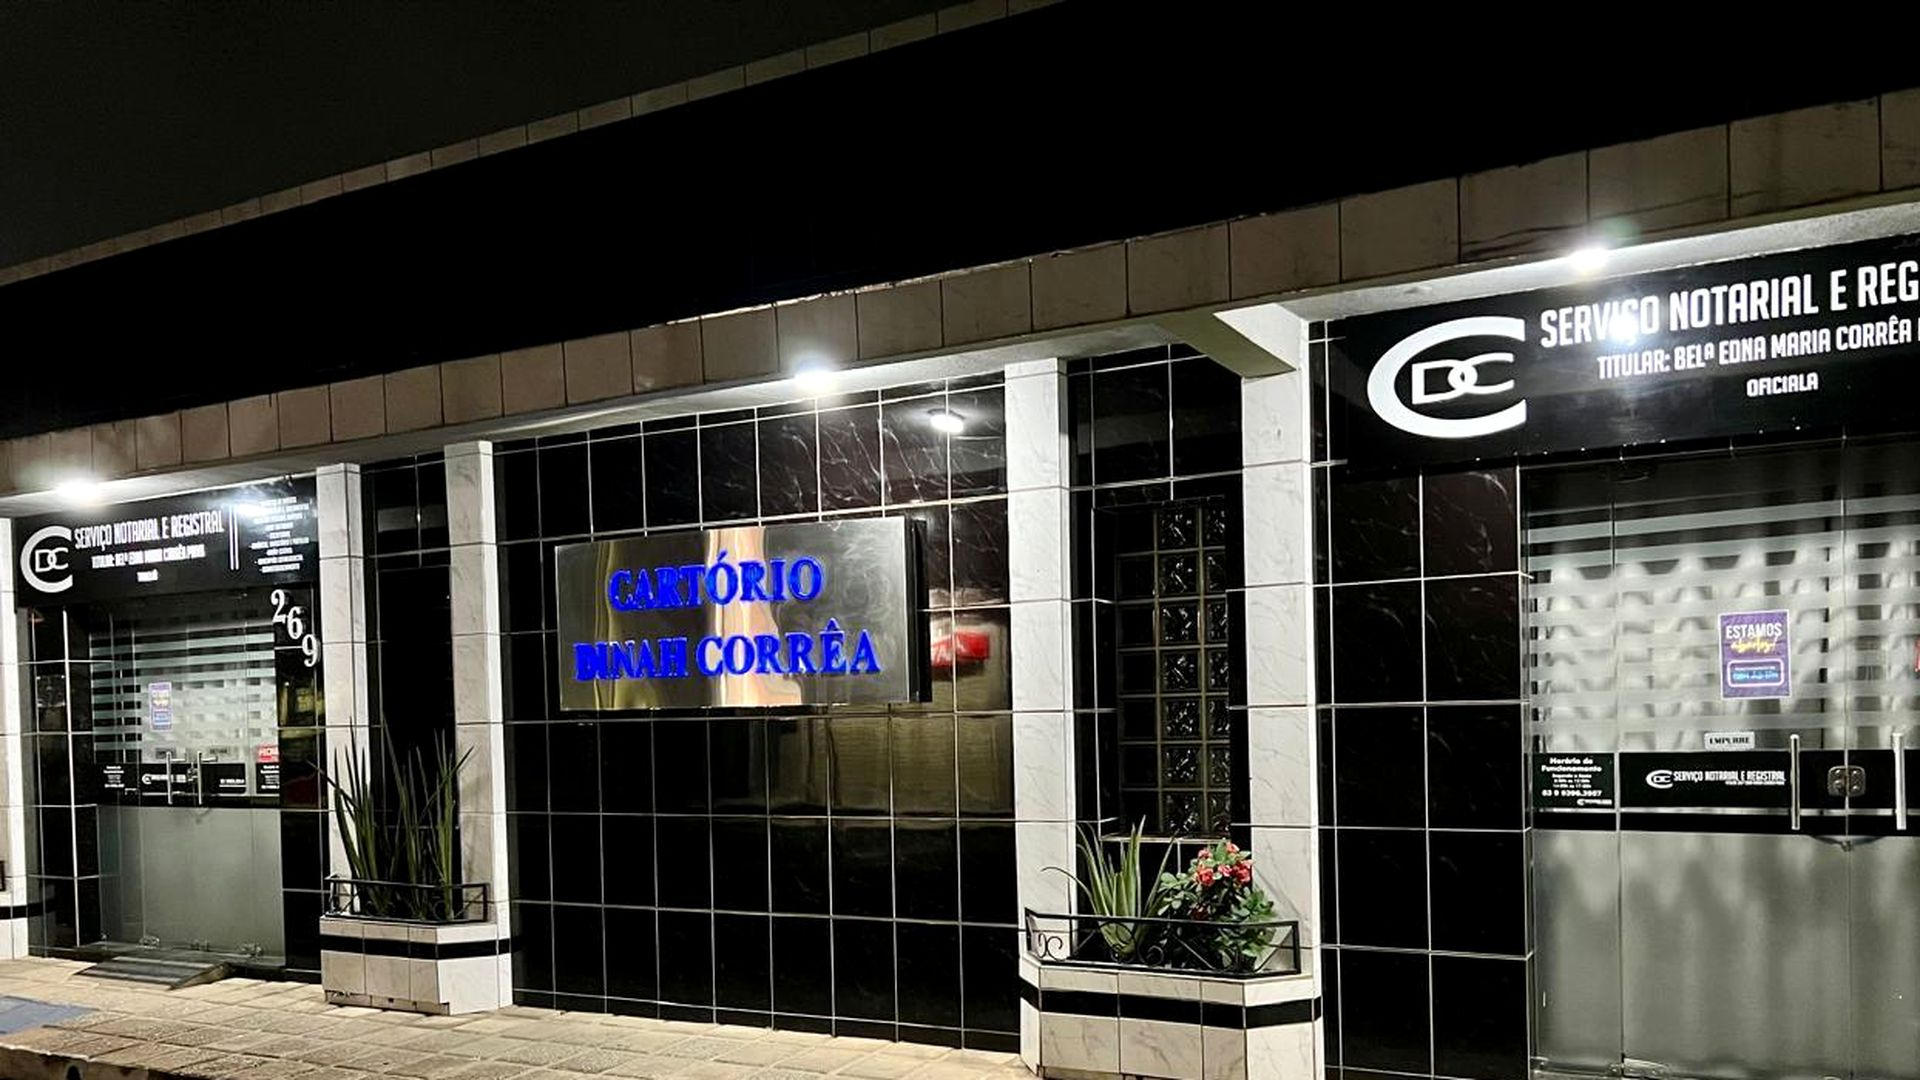
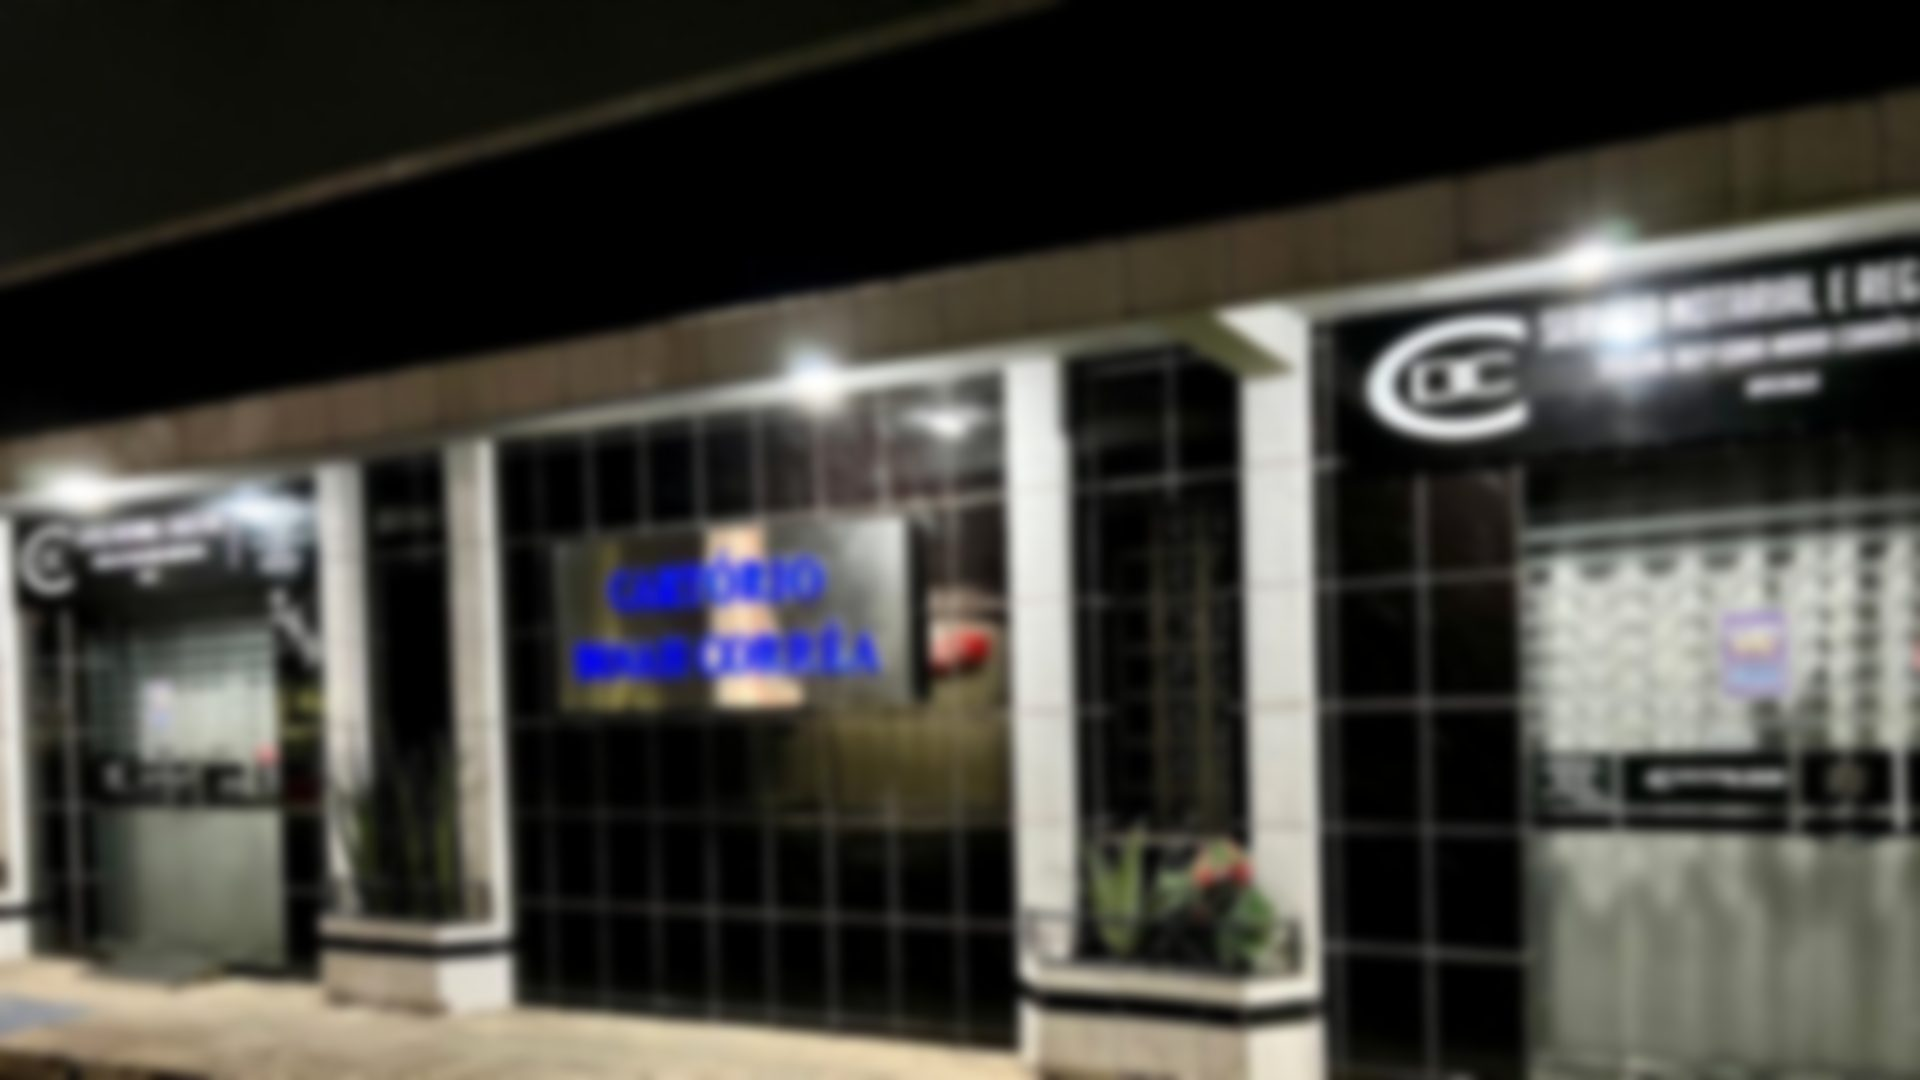
hero: foto da fachada com desfoque suave (6px) e veu mais leve
O desfoque vai aplicado no proprio arquivo, nao via filter do CSS:
evita custo de GPU no scroll de celular e ainda deixa o jpg menor
(250 KB -> 109 KB). Com a foto desfocada o texto para de competir com
a fachada, entao o gradiente escuro pode ser mais leve (.94/.87/.34
-> .90/.78/.30) e o predio aparece melhor.

Cache-busting v=5 nos tres HTML.

diff --git a/index.html b/index.html
@@ -23,7 +23,7 @@
   <link rel="preconnect" href="https://fonts.gstatic.com" crossorigin>
   <link href="https://fonts.googleapis.com/css2?family=Cormorant+Garamond:wght@500;600;700&family=Source+Sans+3:wght@400;500;600;700&display=swap" rel="stylesheet">
   <link rel="stylesheet" href="https://cdnjs.cloudflare.com/ajax/libs/remixicon/4.5.0/remixicon.min.css">
-  <link rel="stylesheet" href="css/style.css?v=4">
+  <link rel="stylesheet" href="css/style.css?v=5">
   <script type="application/ld+json">
   {
     "@context": "https://schema.org",
@@ -463,6 +463,6 @@
 <script src="https://vlibras.gov.br/app/vlibras-plugin.js"></script>
 <script>new window.VLibras.Widget('https://vlibras.gov.br/app');</script>
 
-<script src="js/main.js?v=4"></script>
+<script src="js/main.js?v=5"></script>
 </body>
 </html>

diff --git a/404.html b/404.html
@@ -9,7 +9,7 @@
   <link rel="preconnect" href="https://fonts.googleapis.com">
   <link rel="preconnect" href="https://fonts.gstatic.com" crossorigin>
   <link href="https://fonts.googleapis.com/css2?family=Cormorant+Garamond:wght@500;600;700&family=Source+Sans+3:wght@400;500;600;700&display=swap" rel="stylesheet">
-  <link rel="stylesheet" href="css/style.css?v=4">
+  <link rel="stylesheet" href="css/style.css?v=5">
   <style>
     .nf{min-height:70vh;display:grid;place-items:center;text-align:center;padding:4rem 24px}
     .nf h1{font-size:5rem;color:var(--ouro-esc);line-height:1}

diff --git a/privacidade.html b/privacidade.html
@@ -12,7 +12,7 @@
   <link rel="preconnect" href="https://fonts.gstatic.com" crossorigin>
   <link href="https://fonts.googleapis.com/css2?family=Cormorant+Garamond:wght@500;600;700&family=Source+Sans+3:wght@400;500;600;700&display=swap" rel="stylesheet">
   <link rel="stylesheet" href="https://cdnjs.cloudflare.com/ajax/libs/remixicon/4.5.0/remixicon.min.css">
-  <link rel="stylesheet" href="css/style.css?v=4">
+  <link rel="stylesheet" href="css/style.css?v=5">
   <style>
     .legal{padding:4.5rem 0;max-width:820px}
     .legal h1{font-size:2.6rem;margin-bottom:.4rem}

diff --git a/css/style.css b/css/style.css
@@ -84,7 +84,9 @@ h2{font-size:2.4rem}
 }
 .hero::before{
   content:"";position:absolute;inset:0;z-index:-1;
-  background:linear-gradient(105deg,rgba(20,19,17,.94) 0%,rgba(28,26,24,.87) 48%,rgba(26,25,23,.34) 100%);
+  /* a foto do hero ja vai desfocada no arquivo (6px), entao o veu pode ser
+     mais leve: a fachada aparece melhor sem prejudicar a leitura do texto */
+  background:linear-gradient(105deg,rgba(20,19,17,.9) 0%,rgba(28,26,24,.78) 48%,rgba(26,25,23,.3) 100%);
 }
 .hero-inner{padding:6.5rem 24px 6.8rem;max-width:820px}
 .hero-eyebrow{
